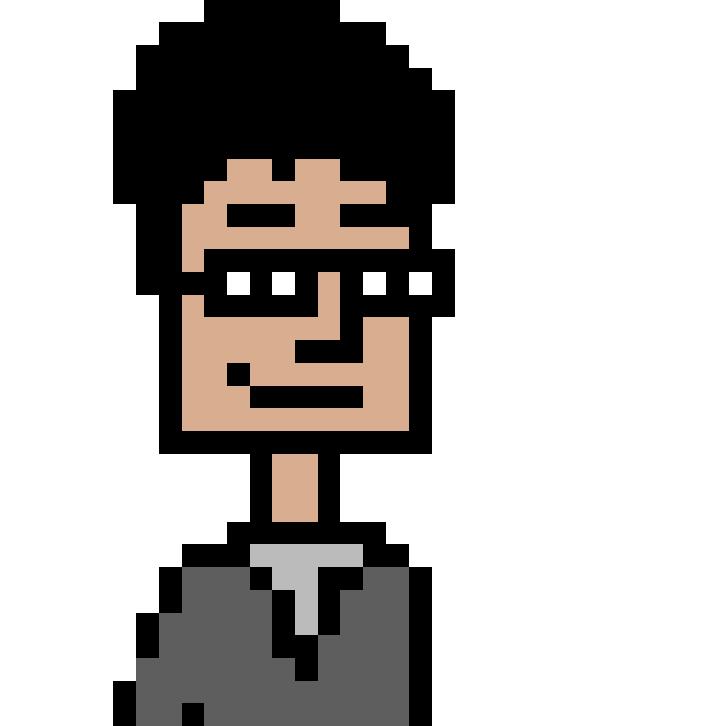
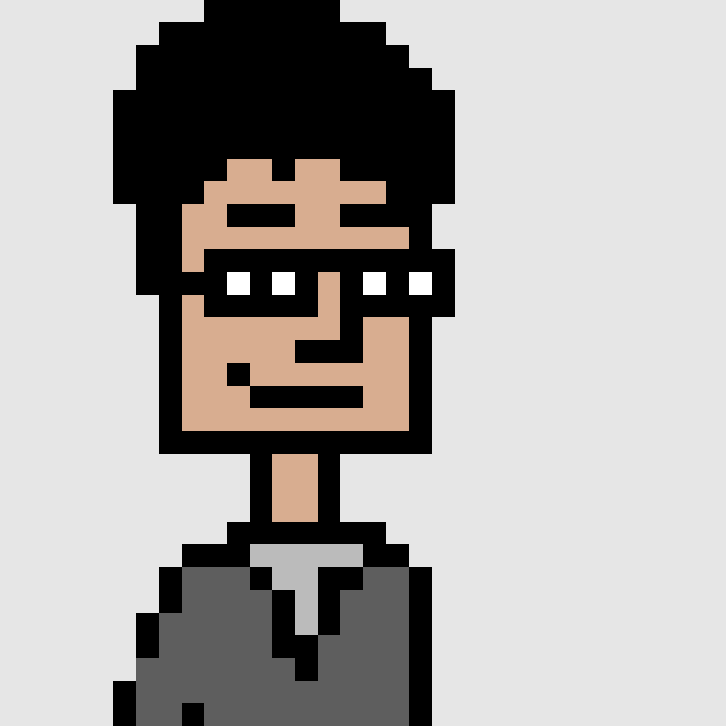
fixed alignment on large size, image spacing, transparent backgrounds

diff --git a/css/uqcs.css b/css/uqcs.css
@@ -46,6 +46,7 @@ body {
 
 .profile {
     text-align: center;
+    margin-bottom: 1.5em;
 }
 
 .profile .name {

diff --git a/about.md b/about.md
@@ -88,7 +88,7 @@ We develop, hack and ultimately have fun.
         <span class="name">James Copperthwaite (<a href="https://uqcs.slack.com/messages/@jcopprthwaite/" target="_blank">@jcopprthwaite</a>)</span><br>
         <span class="role">General Committee</span>
     </div>
-    <div class="profile col s8 offset-s2 m6 l4">
+    <div class="profile col s8 offset-s2 m6 l4 offset-l2">
         <a href="https://github.com/KentonLam/">
           <img class="profile-img" src="{{site.baseurl}}/img/exec/kenton.png">
         </a>
